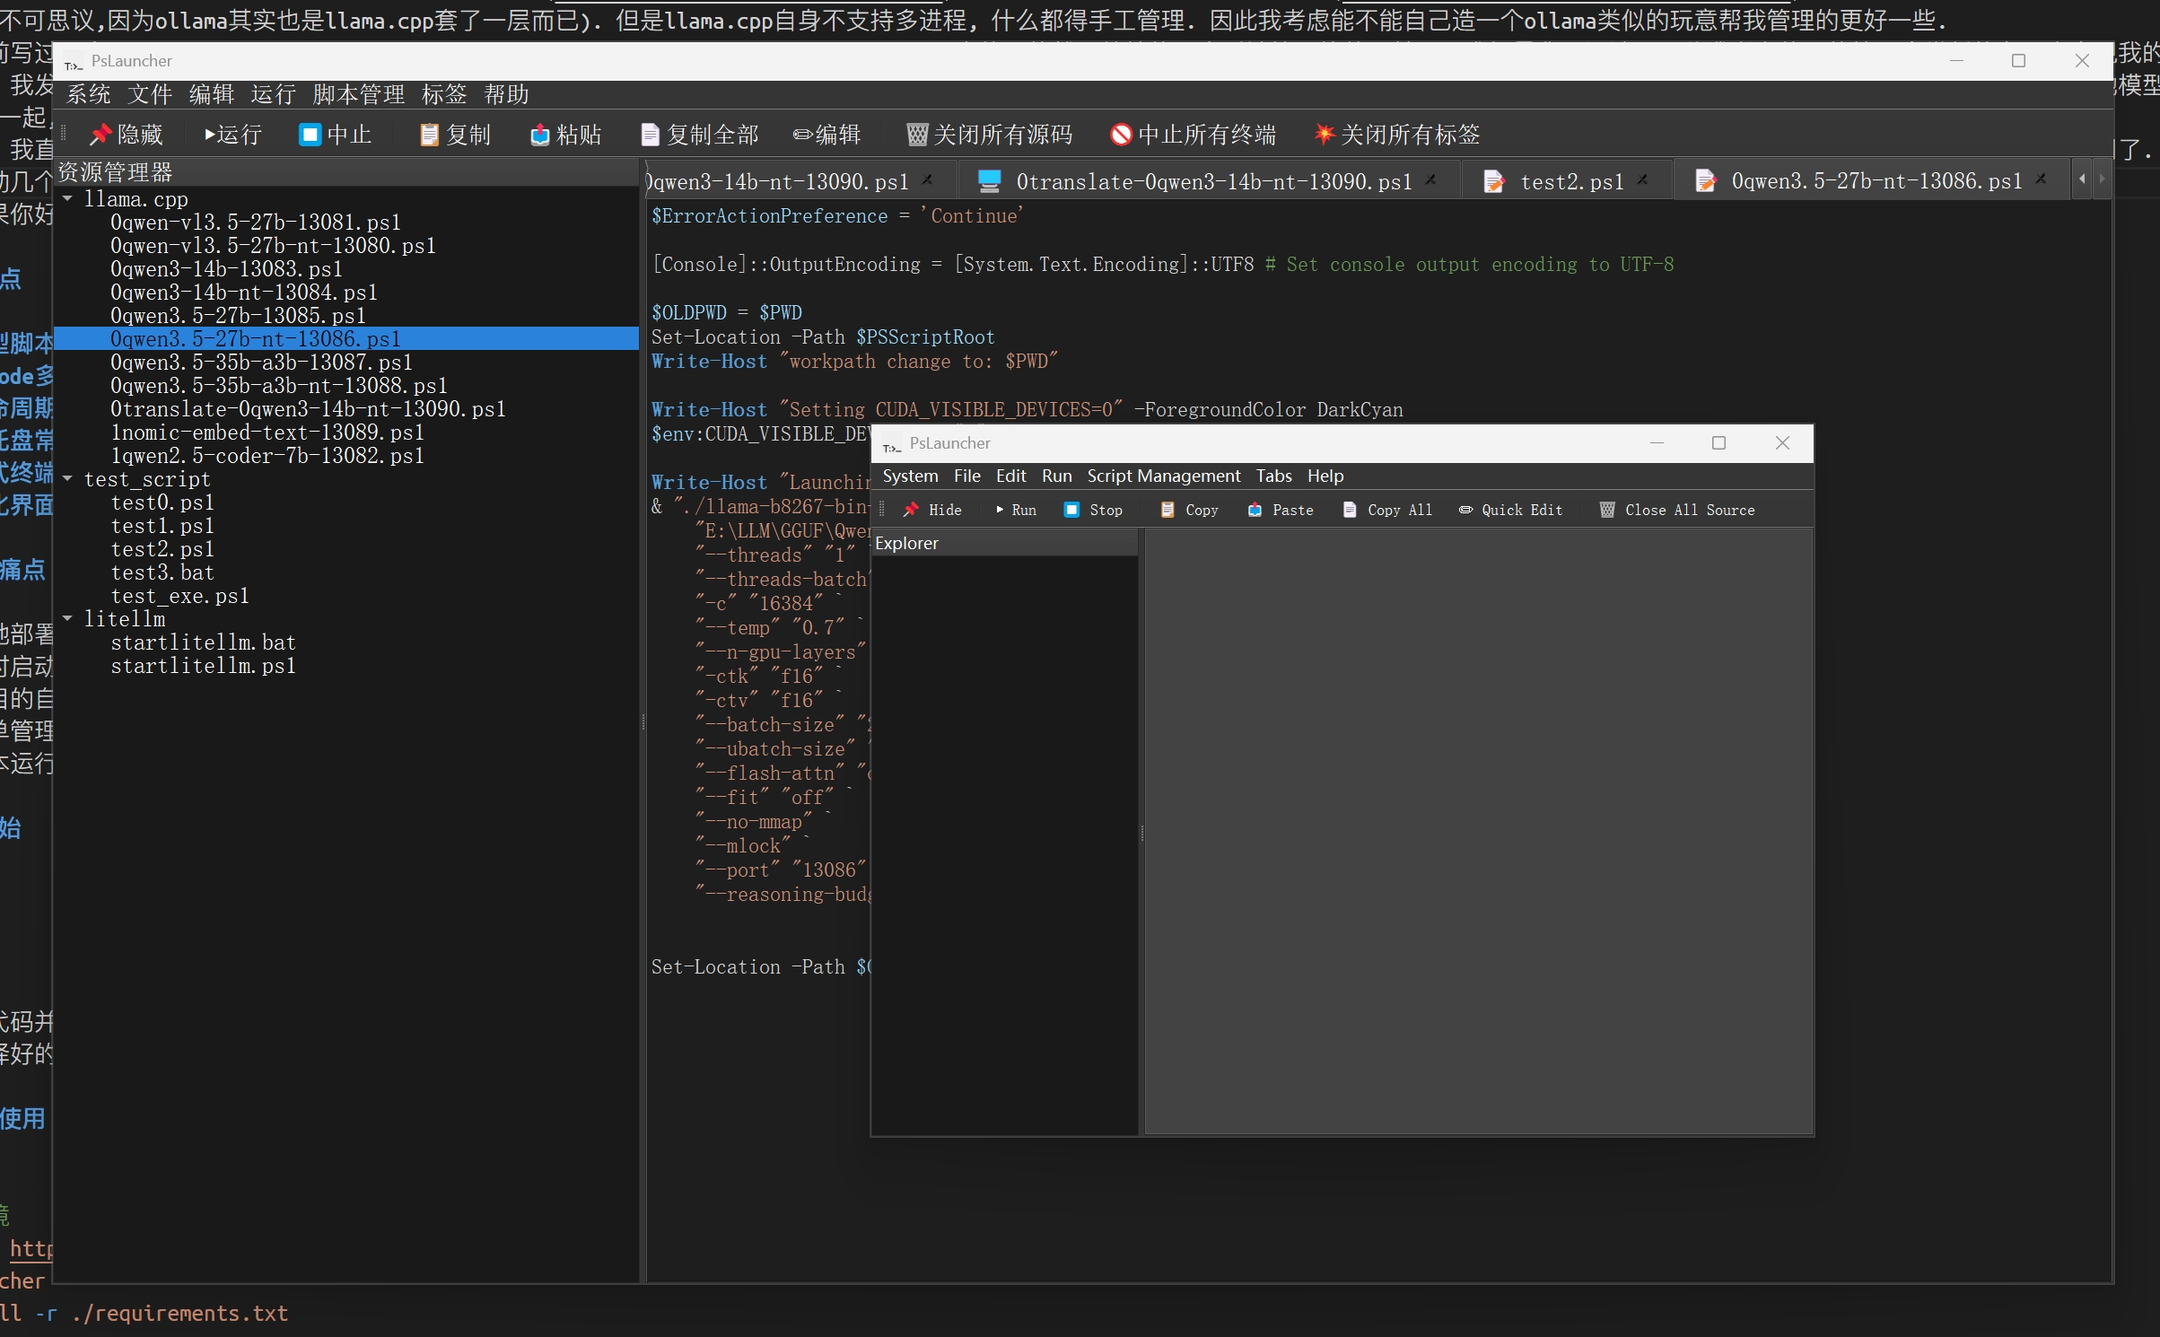
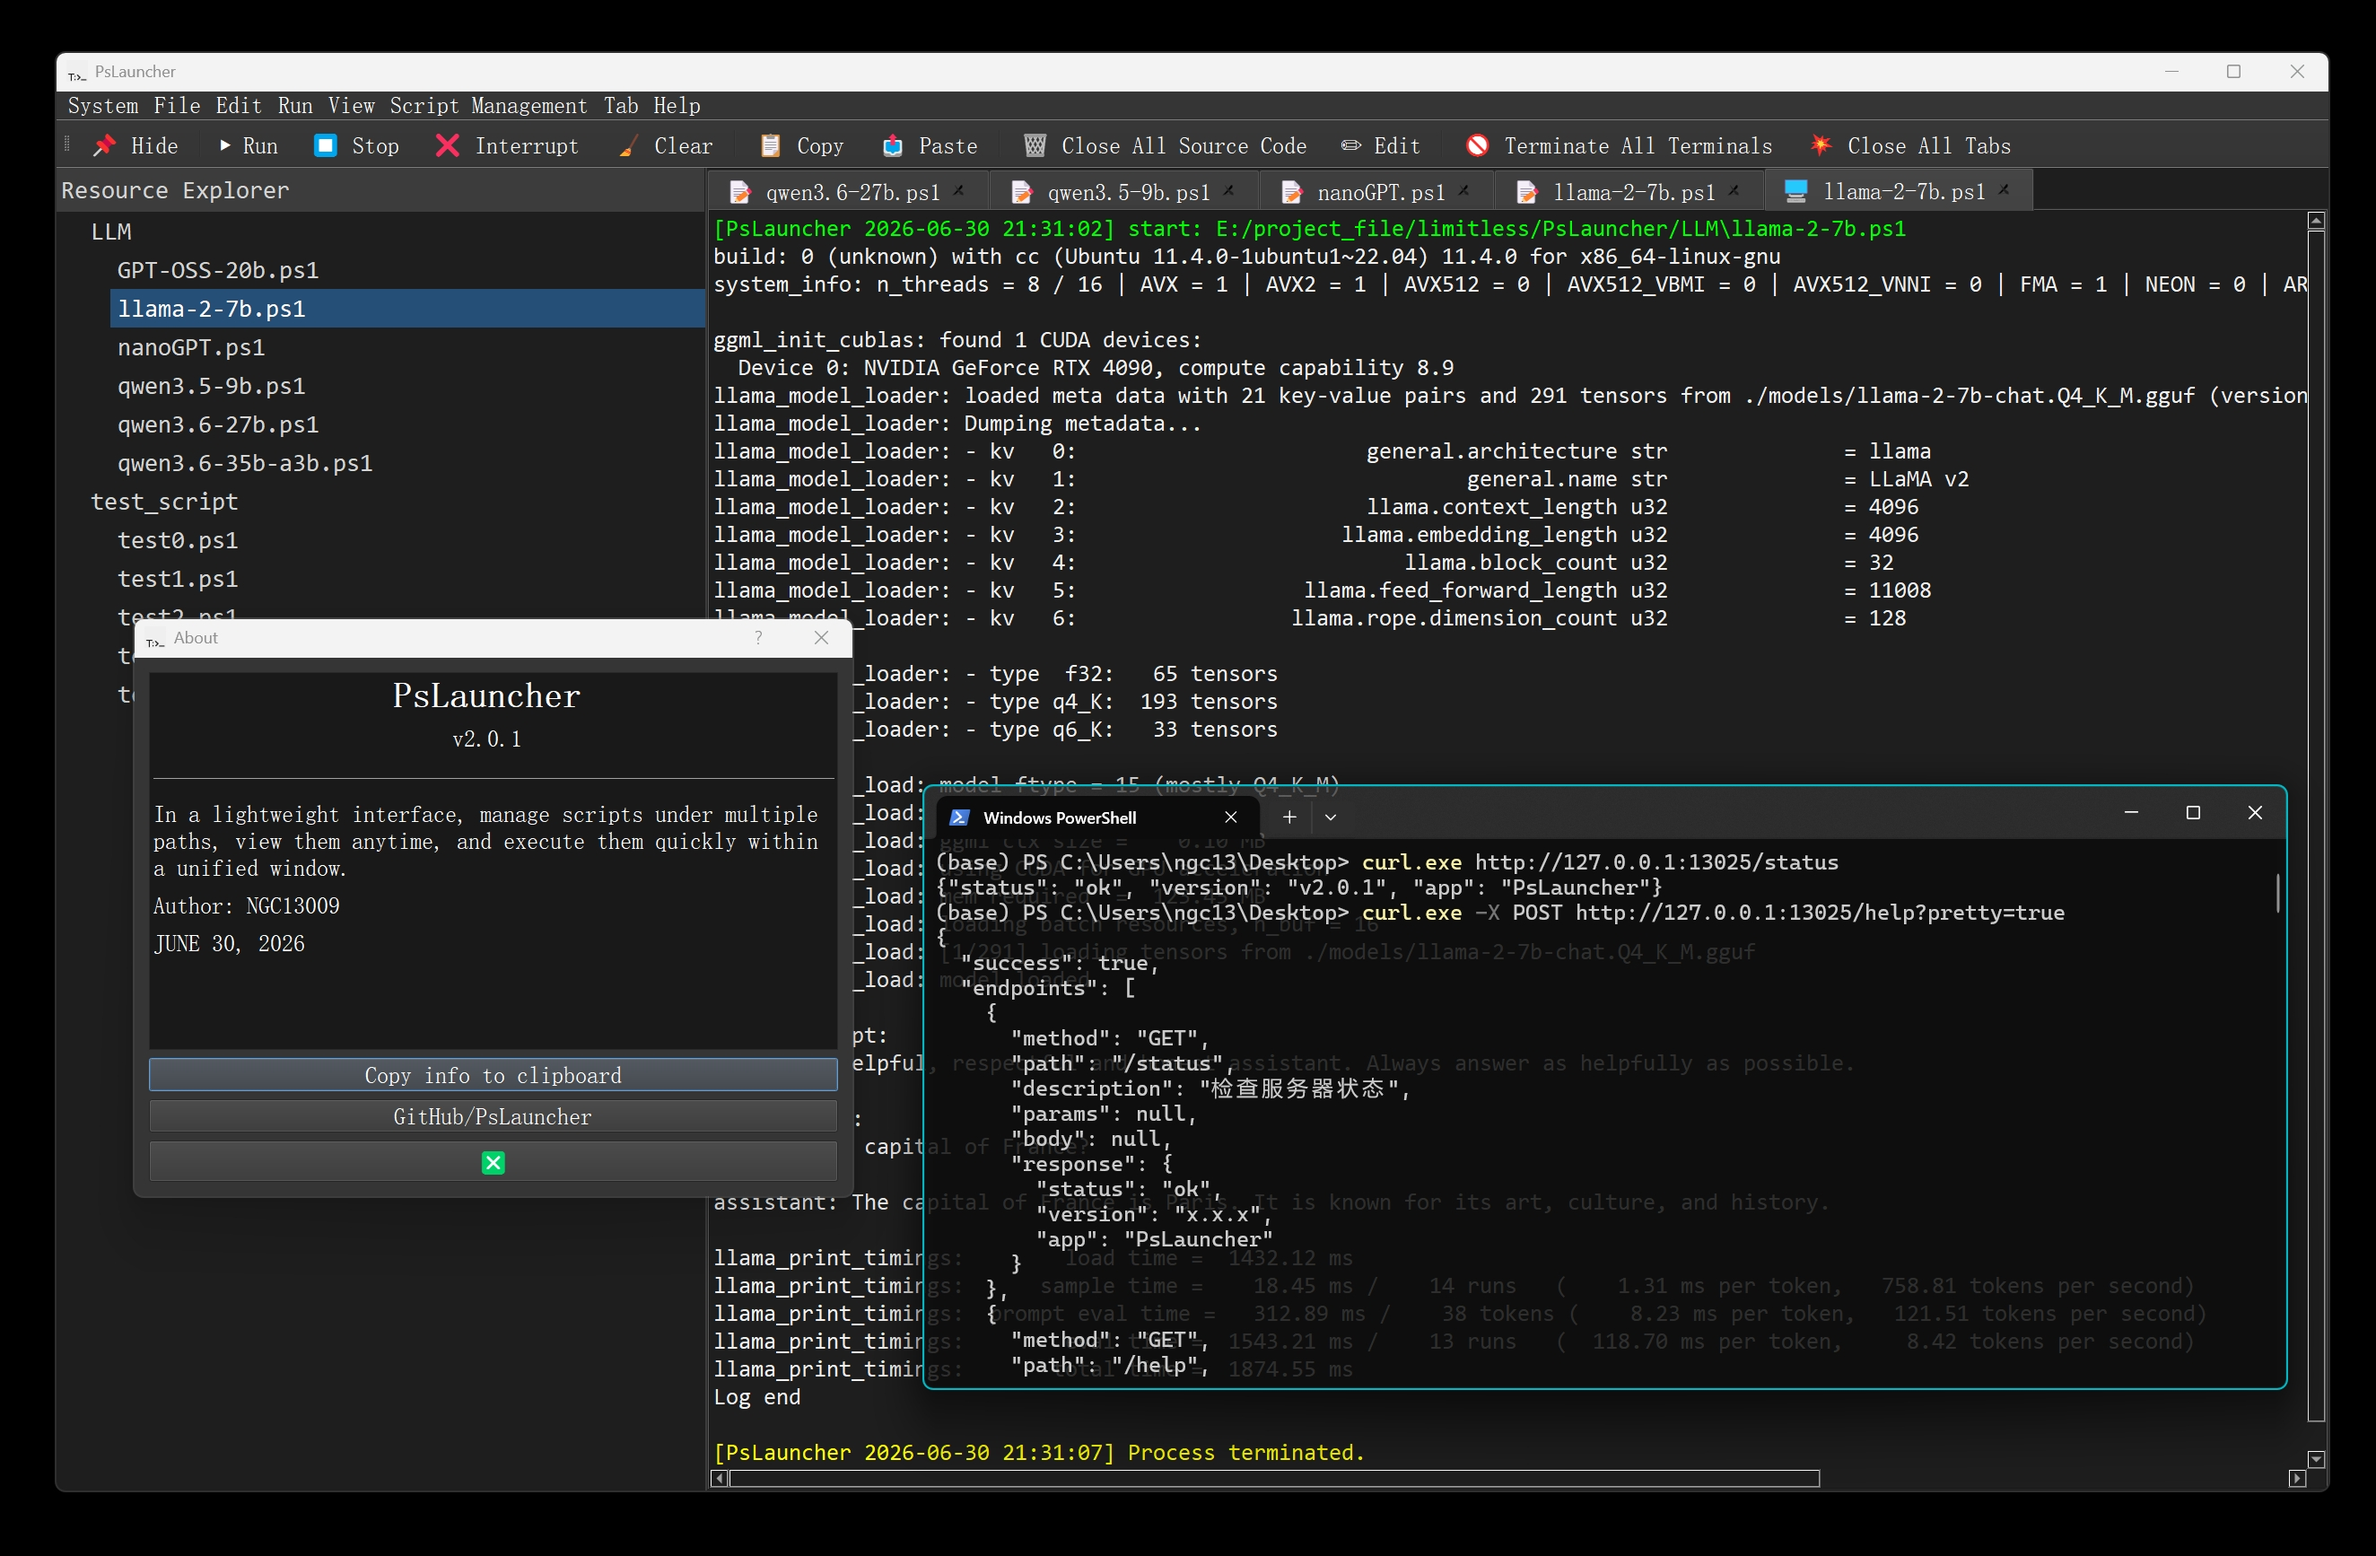
中文readme添加mermaid架构图，添加curl的演示结果说明，换了个主题图片

diff --git a/README_CN.md b/README_CN.md
@@ -2,6 +2,12 @@
 
 在一个类 VSCode 的轻量界面中统一管理并运行 PowerShell / Bash / Batch 脚本，同时内置一套 HTTP API 服务，**让人与 AI Agent 能以同一套语义异步的，非阻塞的操作统一管理的本地服务进程**：启动、交互、强杀、查输出、批量回收。支持系统托盘常驻、子进程树强杀、ANSI 着色终端与交互式输入输出，专为 llama.cpp / Ollama / litellm 等本地大模型部署场景优化。兼容Windows，Linux，macos等。
 
+<center><a href='./README_CN.md'>中文说明书</a> | <a href='./README.md'>English version</a></center>
+
+![pic](pic.jpg)
+
+<center>图. PsLauncher的运行状态展示</center>
+
 ## 核心亮点
 
 - **ai不再因为程序进程而阻塞**：当程序执行在终端内的时候，ai仍旧可以选择随时查看日志或进行其他操作。同时管理多个程序的输入输出，彻底解耦程序和ai的交互时序问题。
@@ -10,6 +16,59 @@
 - **计算资源的确定性回收**：直击僵尸进程与显存泄漏的顽疾，提供从优雅终止到进程树强杀的彻底回收能力，保障硬件资源在多服务切换中的稳定释放。不再产生cpu/内存/GPU的额外占用。
 - **长任务的动态托管闭环**：将传统终端从一次性升级为可视化任务容器，支持在任务运行期间随时查阅历史轨迹并动态注入新指令，完美适配AI长时编排与交互式脚本的运行诉求。无惧程序卡死导致agent loop被打断。
 - **全场景形态的无缝切换**：兼顾桌面开发的低打扰常驻需求与无头服务器的纯后端托管诉求，以同一套系统消除不同部署环境下的体验割裂。
+
+```mermaid
+flowchart TB
+    %% 定义节点样式
+    classDef agentNode fill:#e1f5fe,stroke:#03a9f4,stroke-width:2px,color:#0d47a1;
+    classDef plNode fill:#fff8e1,stroke:#ffa000,stroke-width:2px,color:#e65100;
+    classDef svcNode fill:#e8f5e9,stroke:#43a047,stroke-width:2px,color:#1b5e20;
+    classDef apiNode fill:#ffebee,stroke:#d32f2f,stroke-width:3px,color:#b71c1c;
+    classDef guiNode fill:#f3e5f5,stroke:#8e24aa,stroke-width:2px,color:#4a148c;
+
+    subgraph Agent["AI Agent loop"]
+        AGENT["AI Agent"]:::agentNode
+        skill["LLM + skill.md"]:::agentNode
+    end
+
+    subgraph GUI["人类操作界面"]
+        traynode["托盘"]:::guiNode
+        GUIUI["用户图形界面"]:::guiNode
+    end
+
+    subgraph PL["PsLauncher 内核"]
+        direction TB
+        API["HTTP API<br/>(AI 调用接口)"]:::apiNode
+        core["进程调度器"]:::apiNode
+        logctrl["日志上下文管理"]:::apiNode
+    end
+
+    subgraph SVCS["本地服务进程"]
+        LLAMA["llama.cpp"]:::svcNode
+        OLLAMA["Ollama"]:::svcNode
+        LITELLM["LiteLLM"]:::svcNode
+        TRAIN["模型训练进程"]:::svcNode
+        LORA["LoRA微调任务"]:::svcNode
+        CUSTOM["自定义脚本"]:::svcNode
+    end
+
+    %% 核心交互流
+    Agent <==>|"调用API<br/>(运行/管理/交互/回传结果)"| PL
+    
+    %% GUI 与编排层交互
+    GUI <==>|"双向同步<br/>(状态共享)"| PL
+    GUI -.->|"人工接管/监控"| PL
+    
+    %% 服务管理
+    PL -->|"统一调度"| LLAMA
+    PL -->|"统一调度"| OLLAMA
+    PL -->|"统一调度"| LITELLM
+    PL -->|"统一调度"| TRAIN
+    PL -->|"统一调度"| LORA
+    PL -->|"统一调度"| CUSTOM
+```
+
+<center>图. PsLauncher的架构原理与亮点技术</center>
 
 ## 解决的痛点
 
@@ -496,63 +555,265 @@ token 不正确时返回 `401 Unauthorized`。
 
 > **PowerShell 注意**：PowerShell 解析参数的方式与 CMD 不同，推荐使用 `--%`（停止解析符号）。以下示例均采用 `--%` 写法，并用 `\` 表示路径分隔符和转义。下面的例子基于PowerShell语法规则，在Windows11上执行通过测试。
 
+- 检查服务状态
+
 ```powershell
-# 0. 检查服务状态
 curl.exe http://127.0.0.1:13025/status
+```
 
-# 0.1 获取所有可用 API 端点格式列表(美观格式化)
+预期输出：
+
+```jsonc
+{"status": "ok", "version": "v2.0.1", "app": "PsLauncher"}
+```
+
+- 获取所有可用 API 端点格式列表(美观格式化)
+
+```powershell
 curl.exe -X POST http://127.0.0.1:13025/help?pretty=true
+```
 
-# 1. 添加 test_script 文件夹到扫描列表
+预期输出：
+
+```jsonc
+{
+  "success": true,
+  "endpoints": [
+    {
+      "method": "GET",
+      "path": "/status",
+      "description": "检查服务器状态",
+      "params": null,
+      "body": null,
+      "response": {
+        "status": "ok",
+        "version": "x.x.x",
+        "app": "PsLauncher"
+      }
+    },
+    ..... // 省略多行
+  ]
+}
+```
+
+- 添加 test_script 文件夹到扫描列表
+
+```powershell
 curl.exe --% -X POST http://127.0.0.1:13025/folder/add -H "Content-Type: application/json" -d "{\"path\":\"E:\\project_file\\limitless\\PsLauncher\\test_script\"}"
+```
 
-# 2. 列出所有可运行脚本
+预期输出：
+
+```jsonc
+{"success": true, "message": "已添加文件夹: E:\\project_file\\limitless\\PsLauncher\\test_script"}
+```
+
+- 列出所有可运行脚本
+
+```powershell
 curl.exe http://127.0.0.1:13025/scripts
+```
 
-# 3. 运行 test0.ps1（基础输出 + 显示工作目录）=====
-#     test0.ps1 内容：输出三行文本，然后显示当前工作路径
+预期输出：
+
+```jsonc
+{"scripts": [{"folder": "E:/project_file/limitless/PsLauncher/test_script", "name": "test0.ps1", ...}....}
+```
+
+- 运行 test0.ps1（基础输出 + 显示工作目录）
+
+> test0.ps1 内容：输出三行文本，然后显示当前工作路径
+
+```powershell
 curl.exe --% -X POST http://127.0.0.1:13025/script/run -H "Content-Type: application/json" -d "{\"folder\":\"E:\\project_file\\limitless\\PsLauncher\\test_script\",\"script\":\"test0.ps1\"}"
+```
 
-# 4. 查看终端列表（记录终端 ID）=====
+预期输出：
+
+```jsonc
+{"success": true, "terminal_id": 0, "message": "已启动脚本: test0.ps1"}
+```
+
+同时PsLauncher GUI启动对应脚本
+
+- 查看终端列表（记录终端 ID）
+
+```powershell
 curl.exe http://127.0.0.1:13025/terminals
+```
 
-# 5. 查看终端输出（id=0 是上一步运行的 test0.ps1）=====
+预期输出：
+
+```jsonc
+{"terminals": [{"id": 0, "name": "test0.ps1", "script": "E:\\project_file\\limitless\\PsLauncher\\test_script\\test0.ps1", "running": false}]}
+```
+
+- 查看终端输出（id=0 是上一步运行的 test0.ps1）
+
+```powershell
 curl.exe "http://127.0.0.1:13025/terminal/output?id=0"
+```
 
-# 6. 运行 test2.ps1（交互式输入演示）=====
-#     test2.ps1 内容：输出三行后通过 Read-Host 等待键盘输入
+预期输出：
+
+```jsonc
+{"success": true, "id": 0, "name": "test0.ps1", "output": "[PsLauncher 2026-06-30 21:40:20] start: E:\\project_file\\limitless\\PsLauncher\\test_script\\test0.ps1\ntest0-1\ntest0-2\ntest0-3\nCurrent work path: E:\\project_file\\limitless\\PsLauncher\\test_script\n\n[PsLauncher 2026-06-30 21:40:20] Process terminated.\n"}
+```
+
+- 运行 test2.ps1（交互式输入演示）
+
+> test2.ps1 内容：输出三行后通过 Read-Host 等待键盘输入
+
+```powershell
 curl.exe --% -X POST http://127.0.0.1:13025/script/run -H "Content-Type: application/json" -d "{\"folder\":\"E:\\project_file\\limitless\\PsLauncher\\test_script\",\"script\":\"test2.ps1\"}"
+```
 
-# 7. 查看新终端列表（此时应有 id=0 和 id=1 两个终端）=====
+预期输出：
+
+```jsonc
+{"success": true, "terminal_id": 1, "message": "已启动脚本: test2.ps1"}
+```
+
+- 查看新终端列表（此时应有 id=0 和 id=1 两个终端）
+
+```powershell
 curl.exe http://127.0.0.1:13025/terminals
+```
 
-# 8. 向 id=1（test2.ps1）发送输入
+预期输出：
+
+```jsonc
+{"terminals": [{"id": 0, "name": "test0.ps1", "script": "E:\\project_file\\limitless\\PsLauncher\\test_script\\test0.ps1", "running": false}, {"id": 1, "name": "test2.ps1", "script": "E:\\project_file\\limitless\\PsLauncher\\test_script\\test2.ps1", "running": true}]}
+```
+
+- 向 id=1（test2.ps1）发送输入
+
+```powershell
 curl.exe --% -X POST http://127.0.0.1:13025/terminal/input -H "Content-Type: application/json" -d "{\"id\":1,\"text\":\"Hello PsLauncher\"}"
+```
 
-# 9. 查看 test2.ps1 的输出（应包含刚输入的内容）=====
+预期输出：
+
+```jsonc
+{"success": true, "message": "已向终端 ID=1 发送输入"}
+```
+
+- 查看 test2.ps1 的输出（应包含刚输入的内容）
+
+```powershell
 curl.exe "http://127.0.0.1:13025/terminal/output?id=1"
+```
 
-# 10. 运行 test3.bat（批处理脚本演示）=====
+预期输出：
+
+```jsonc
+{"success": true, "id": 1, "name": "test2.ps1", "output": "[PsLauncher 2026-06-30 21:41:29] start: E:\\project_file\\limitless\\PsLauncher\\test_script\\test2.ps1\ntest2-1\ntest2-2\ntest2-3\nHello PsLauncher\nYou entered: Hello PsLauncher\n\n[PsLauncher 2026-06-30 21:41:44] Process terminated.\n"}
+```
+
+- 运行 test3.bat（批处理脚本演示）
+
+```powershell
 curl.exe --% -X POST http://127.0.0.1:13025/script/run -H "Content-Type: application/json" -d "{\"folder\":\"E:\\project_file\\limitless\\PsLauncher\\test_script\",\"script\":\"test3.bat\"}"
+```
 
-# 11. 查看 test3.bat 的输出
+预期输出：
+
+```jsonc
+{"success": true, "terminal_id": 2, "message": "已启动脚本: test3.bat"}
+```
+
+- 查看 test3.bat 的输出
+
+```powershell
 curl.exe "http://127.0.0.1:13025/terminal/output?id=2"
+```
 
-# 12. 清空 test3.bat 的终端输出
+预期输出：
+
+```jsonc
+{"success": true, "id": 2, "name": "test3.bat", "output": "[PsLauncher 2026-06-30 21:41:55] start: E:\\project_file\\limitless\\PsLauncher\\test_script\\test3.bat\nbat test3-1\nbat test3-2\nbat test3-3\n\n[PsLauncher 2026-06-30 21:41:55] Process terminated.\n"}
+```
+
+- 清空 test3.bat 的终端输出
+
+```powershell
 curl.exe --% -X POST http://127.0.0.1:13025/terminal/clear -H "Content-Type: application/json" -d "{\"id\":2}"
+```
 
-# 13. 终止 id=1（test2.ps1）的终端进程
+预期输出：
+
+```jsonc
+{"success": true, "message": "已清空终端 ID=2 的输出"}
+```
+
+- 终止 id=1（test2.ps1）的终端进程
+
+```powershell
 curl.exe --% -X POST http://127.0.0.1:13025/terminal/stop -H "Content-Type: application/json" -d "{\"id\":1}"
+```
 
-# 14. 终止所有终端进程
+预期输出：
+
+```jsonc
+{"success": true, "message": "已终止终端 ID=1"}
+```
+
+- 终止所有终端进程
+
+```powershell
 curl.exe --% -X POST http://127.0.0.1:13025/terminal/stop_all
+```
 
-# 15. 关闭 PsLauncher
+预期输出：
+
+```jsonc
+{"success": true, "message": "已终止 2 个终端"}
+```
+
+- 关闭 PsLauncher
+
+```powershell
 curl.exe --% -X POST http://127.0.0.1:13025/shutdown
+```
 
-# 16. 使用美化输出（人类可读）
+预期输出：
+
+```jsonc
+{"success": true, "message": "PsLauncher 正在关闭..."}
+```
+
+> 同时，PsLauncher结束并退出。
+
+### 使用美化输出（人类可读）
+
+加上`?pretty=true`参数后，将会变得易于人类阅读。
+
+- 加上`?pretty=true`参数：
+
+```powershell
 curl.exe "http://127.0.0.1:13025/status?pretty=true"
-curl.exe "http://127.0.0.1:13025/terminals?pretty=true"
+```
+
+预期输出：
+
+```jsonc
+{
+  "status": "ok",
+  "version": "v2.0.1",
+  "app": "PsLauncher"
+}
+```
+
+- 不加`?pretty=true`参数：
+
+```powershell
+curl.exe "http://127.0.0.1:13025/status"
+```
+
+预期输出：
+
+```jsonc
+{"status": "ok", "version": "v2.0.1", "app": "PsLauncher"}
 ```
 
 ### 注意事项
